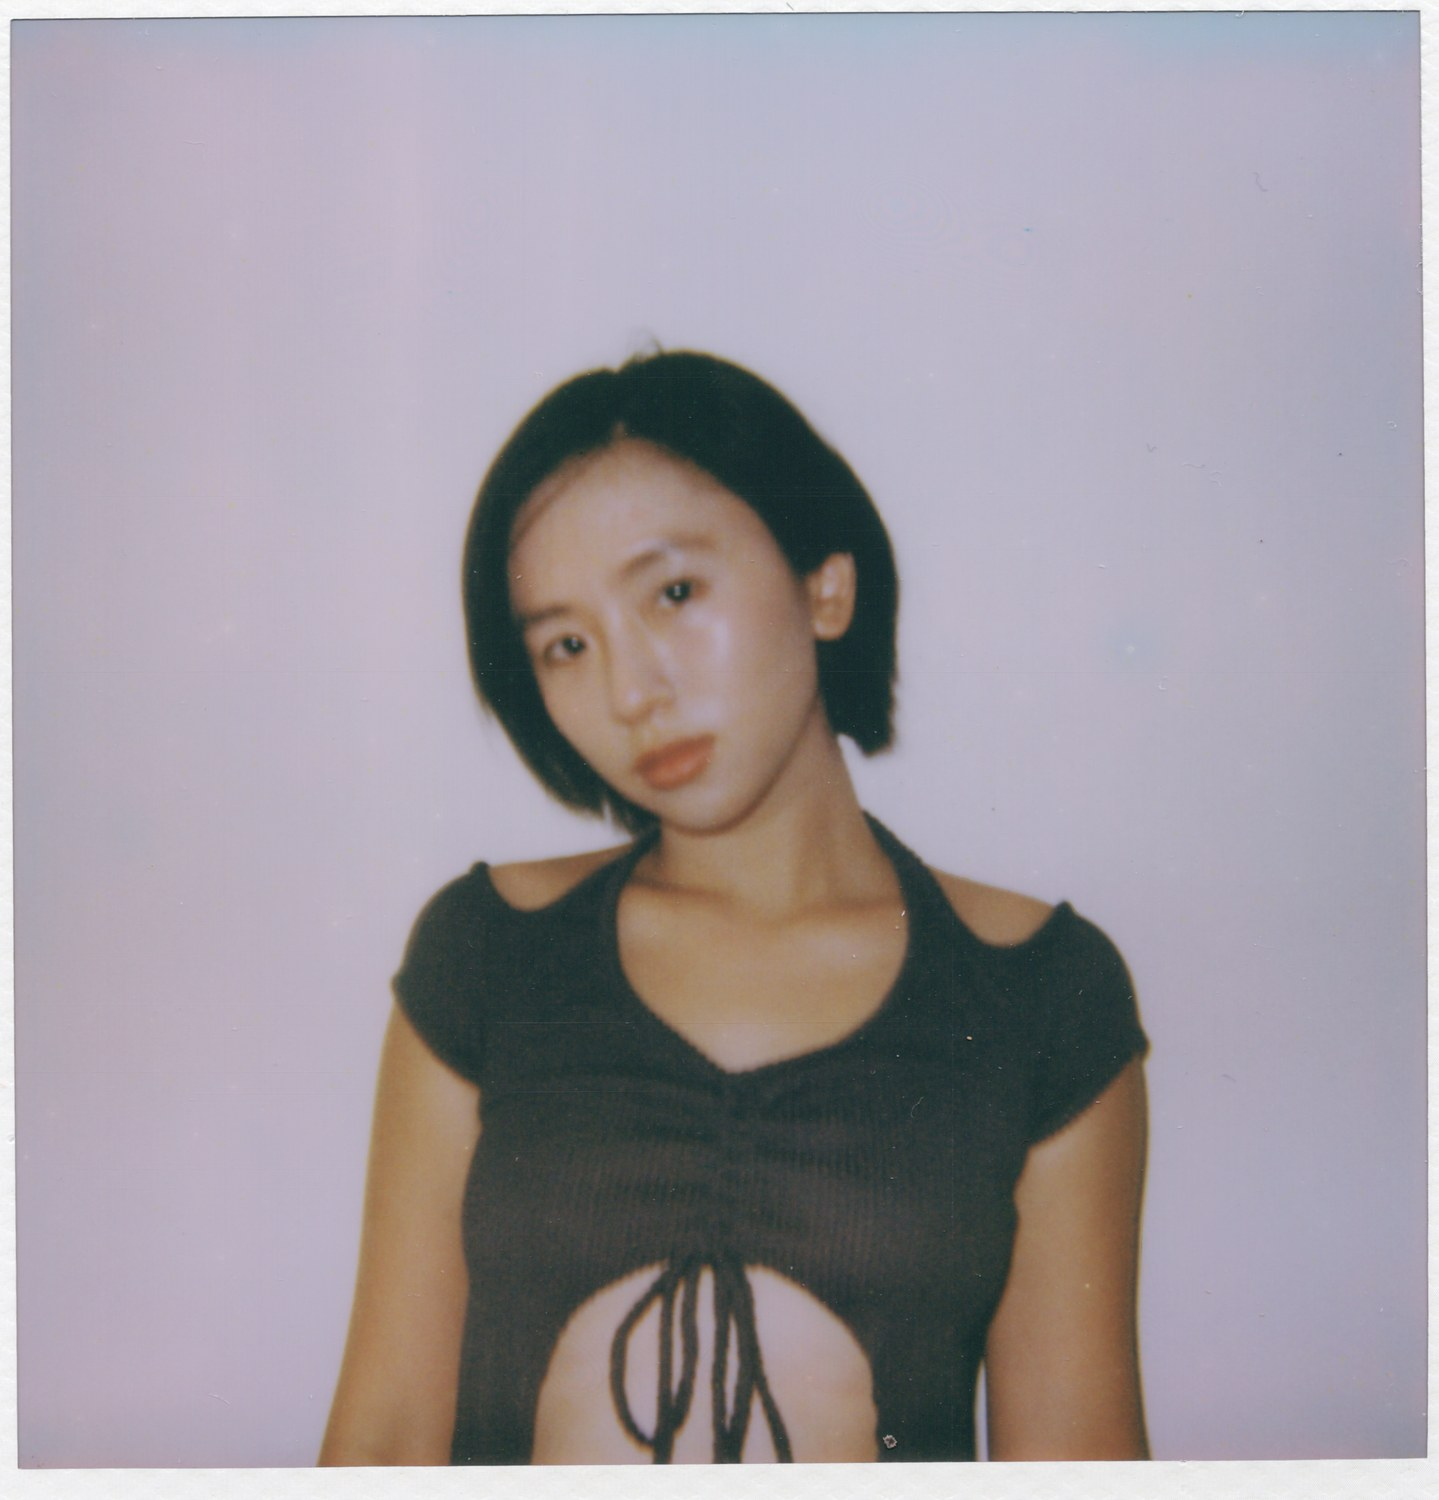
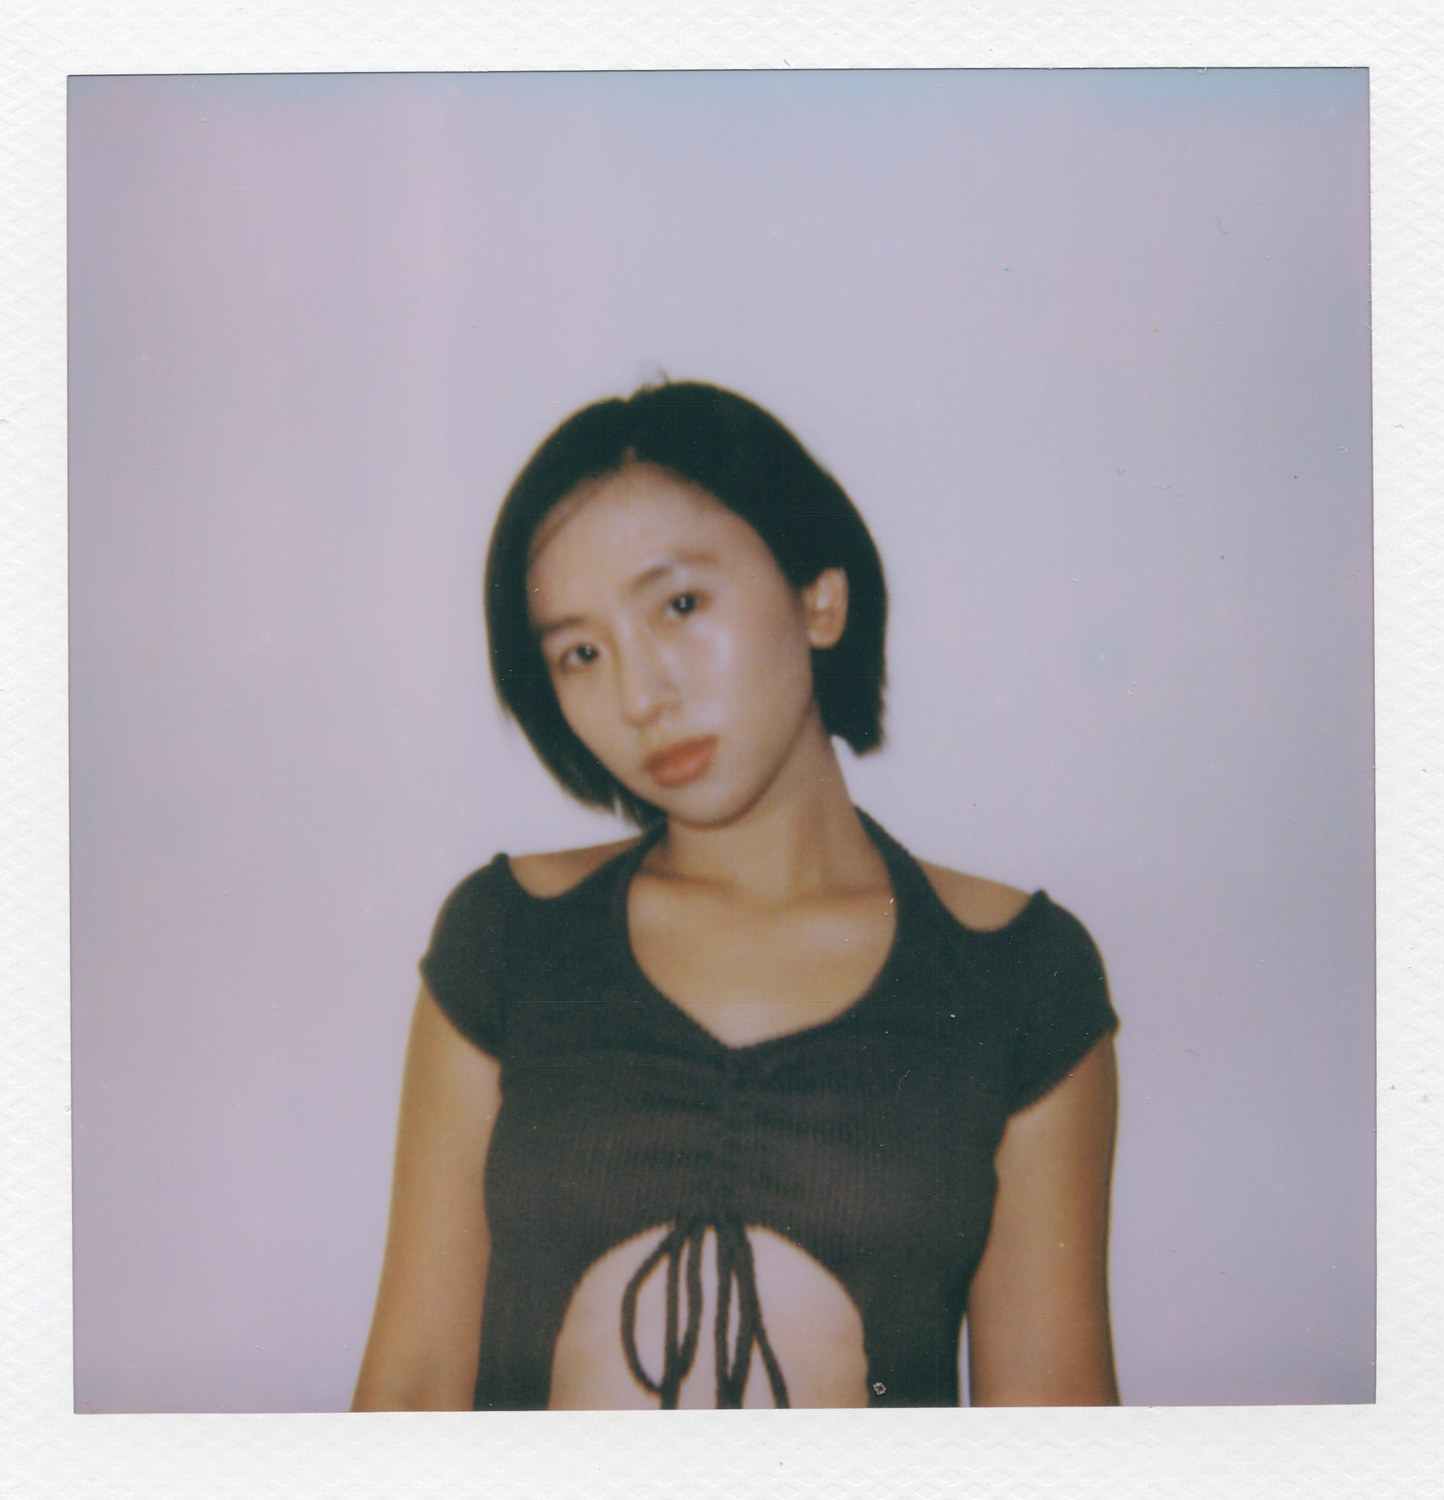
Fix Color 600 border crop, Macro coming-soon, FP100C full-bleed
Re-crop Color 600 Film with more padding so the full Polaroid border
survives (previous crop cut too close to the photo). Replace the
Macro popup's borrowed placeholder photos with a "Coming soon" cell
since it has no real samples yet, matching the Gallery treatment.
Strip the card background/border/padding from the FP100C shot cell
in both Studio Express popups so it displays full-bleed like the
raw scan, matching how the Gallery marquee already shows it.

Changed region(s): [[0.0, 0.0, 1.0, 0.9813], [0.4587, 0.736, 0.4892, 0.7667], [0.4281, 0.46, 0.4587, 0.4907]]

diff --git a/index.html b/index.html
@@ -315,14 +315,7 @@
       <p class="camera-modal__pagelabel">Polaroid SLR 5 MACRO</p>
       <div class="camera-popup__media">
         <img class="camera-popup__cell camera-popup__product" src="assets/cameras/macro-5-slr-cutout.png" alt="Polaroid SLR 5 MACRO" loading="lazy" />
-        <figure class="camera-popup__cell camera-popup__shotwrap">
-          <img class="camera-popup__shot" src="assets/samples/sample-01.jpg" alt="" loading="lazy" />
-          <figcaption>Color i-Type Film</figcaption>
-        </figure>
-        <figure class="camera-popup__cell camera-popup__shotwrap">
-          <img class="camera-popup__shot" src="assets/samples/sample-02.jpg" alt="" loading="lazy" />
-          <figcaption>Color 600 Round</figcaption>
-        </figure>
+        <div class="camera-popup__cell camera-popup__coming-soon" style="grid-column: span 2;" data-vi="Ảnh mẫu sắp có">Coming soon</div>
       </div>
       <p class="camera-popup__desc" data-vi="Cỗ máy chuyên chi tiết cận cảnh. Phóng to bề mặt và khắc họa sắc nét những dấu ấn nhỏ nhất: một hình xăm, nụ cười hay ánh mắt.">Made for up-close shots. Zooms in on the tiny details — a tattoo, a smile, a look in the eyes.</p>
       <div class="camera-popup__price-table camera-popup__price-table--simple">

diff --git a/css/style.css b/css/style.css
@@ -654,9 +654,22 @@ body.modal-open { overflow: hidden; }
 .camera-popup__cell.camera-popup__shotwrap--fp100c {
   height: auto;
   align-self: start;
+  background: none;
+  border: none;
+  padding: 0;
 }
 .camera-popup__shotwrap--fp100c .camera-popup__shot {
   height: auto;
+}
+.camera-popup__cell.camera-popup__coming-soon {
+  display: flex;
+  align-items: center;
+  justify-content: center;
+  text-align: center;
+  background: none;
+  border: 1px dashed rgba(42, 36, 32, 0.25);
+  color: rgba(42, 36, 32, 0.45);
+  font-size: 0.85rem;
 }
 .camera-popup__shotwrap figcaption {
   position: absolute;
